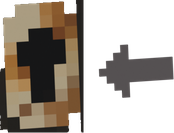
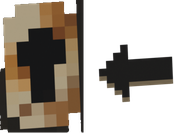
Wardrobe arrows: carved into the wood on Ancient, Village and Crude

Changed region(s): [[0.546, 0.3308, 1.0, 0.782]]

diff --git a/dev/tools/render-wardrobe.py b/dev/tools/render-wardrobe.py
@@ -62,7 +62,7 @@ SETS = {
 grey = lambda d, lo: lambda r, g, b: max(r, g, b) - min(r, g, b) < d and (r + g + b) / 3 > lo
 PAGES = {
     'Lumberjack': {'style': 'carve', 'cut': [117, 118], 'lip': [4, 42]},
-    'Crude': {'style': 'carve', 'cut': [5, 32], 'lip': [10, 112]},
+    'Crude': {'style': 'carve', 'cut': [6, 71], 'lip': [10, 112]},                      # dark wood, not black (black read as paint)
     'Human_Ruins': {'style': 'carve', 'cut': [20, 20], 'lip': [4, 51], 'lip_h': 0.6},   # dark wood: a fuller lip so it reads
     'Jungle': {'style': 'carve', 'cut': [66, 9], 'lip': [40, 50]},
     'Desert': {'style': 'carve', 'cut': [10, 20], 'lip': [70, 17]},                     # in the outer square panel
@@ -75,11 +75,11 @@ PAGES = {
     'Temple_Wind': {'style': 'inlay', 'inlay': [93, 23]},                               # teal
     'Tavern': {'style': 'hardware', 'hw': {'Left': [156, 244, 284, 388], 'Right': [916, 244, 1044, 388]}, 'keep': grey(30, 50)},   # the strap that points out
     'Village': {'style': 'hardware', 'hw': {'Left': [30, 246, 106, 328], 'Right': [1132, 247, 1208, 326]}, 'keep': grey(32, 60),
-                'arrow': 'inlay', 'inlay': [127, 80]},                                   # the knob, an iron arrow beside it
+                'arrow': 'carve', 'cut': [5, 53], 'lip': [64, 0]},                      # the knob, an arrow cut beside it (an iron inlay read as pasted on)
     'Kweebec': {'style': 'hardware', 'hw': {'Left': [35, 351, 117, 437], 'Right': [1076, 351, 1158, 437]}, 'keep': grey(32, 60),
                 'arrow': 'carve', 'cut': [64, 57], 'lip': [50, 104]},                    # the stone knob, an arrow cut beside it
     'Ancient': {'style': 'hardware', 'hw': {'Left': [27, 297, 110, 429], 'Right': [1206, 311, 1289, 443]},
-                'keep': lambda r, g, b: (r + g + b) / 3 < 35 or (r + g + b) / 3 > 105 or r - b > 45, 'arrow': 'inlay', 'inlay': [30, 10]},   # the medallion
+                'keep': lambda r, g, b: (r + g + b) / 3 < 35 or (r + g + b) / 3 > 105 or r - b > 45, 'arrow': 'carve', 'cut': [0, 16], 'lip': [36, 81], 'lip_h': 0.6},   # the medallion, an arrow cut deep beside it (dark wood)
 }
 PLACE = {'Desert': {'plaque_dx': (4.7, -4.7)}, 'Temple_Emerald': {'plaque_y': 24.6}, 'Temple_Light': {'plaque_y': 39.5},
          'Village': {'plaque_y': 41}, 'Kweebec': {'plaque_y': 30.6}}
